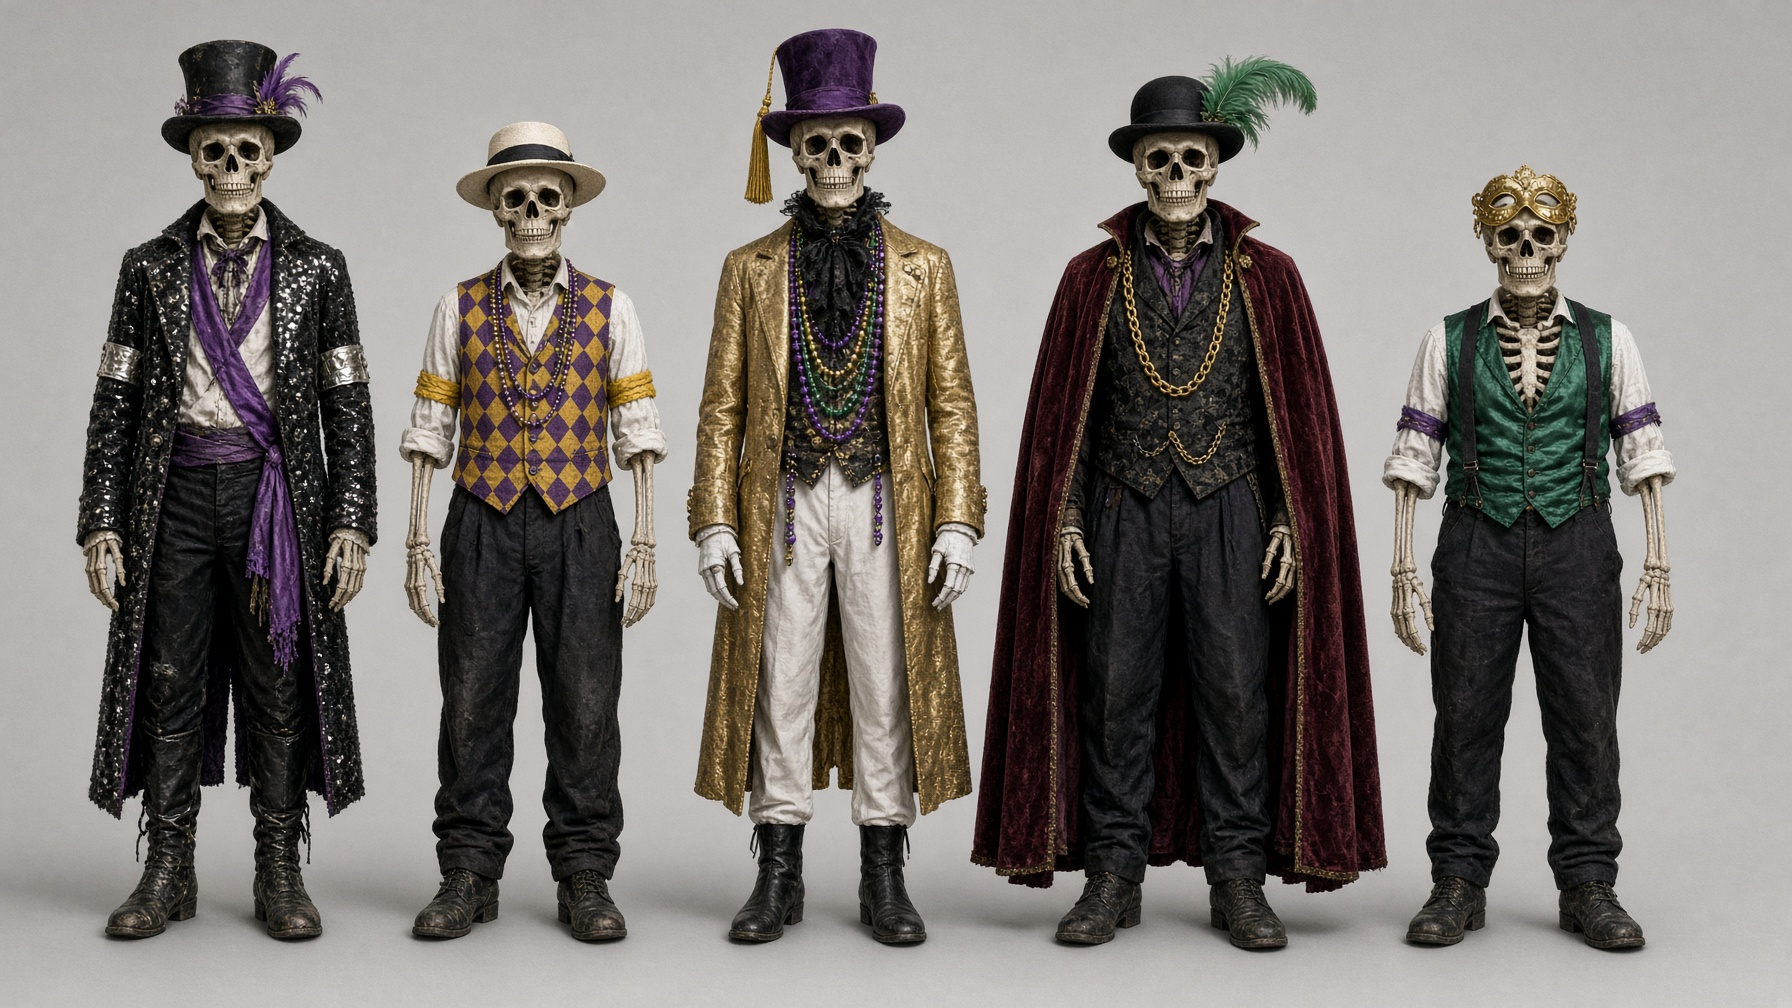
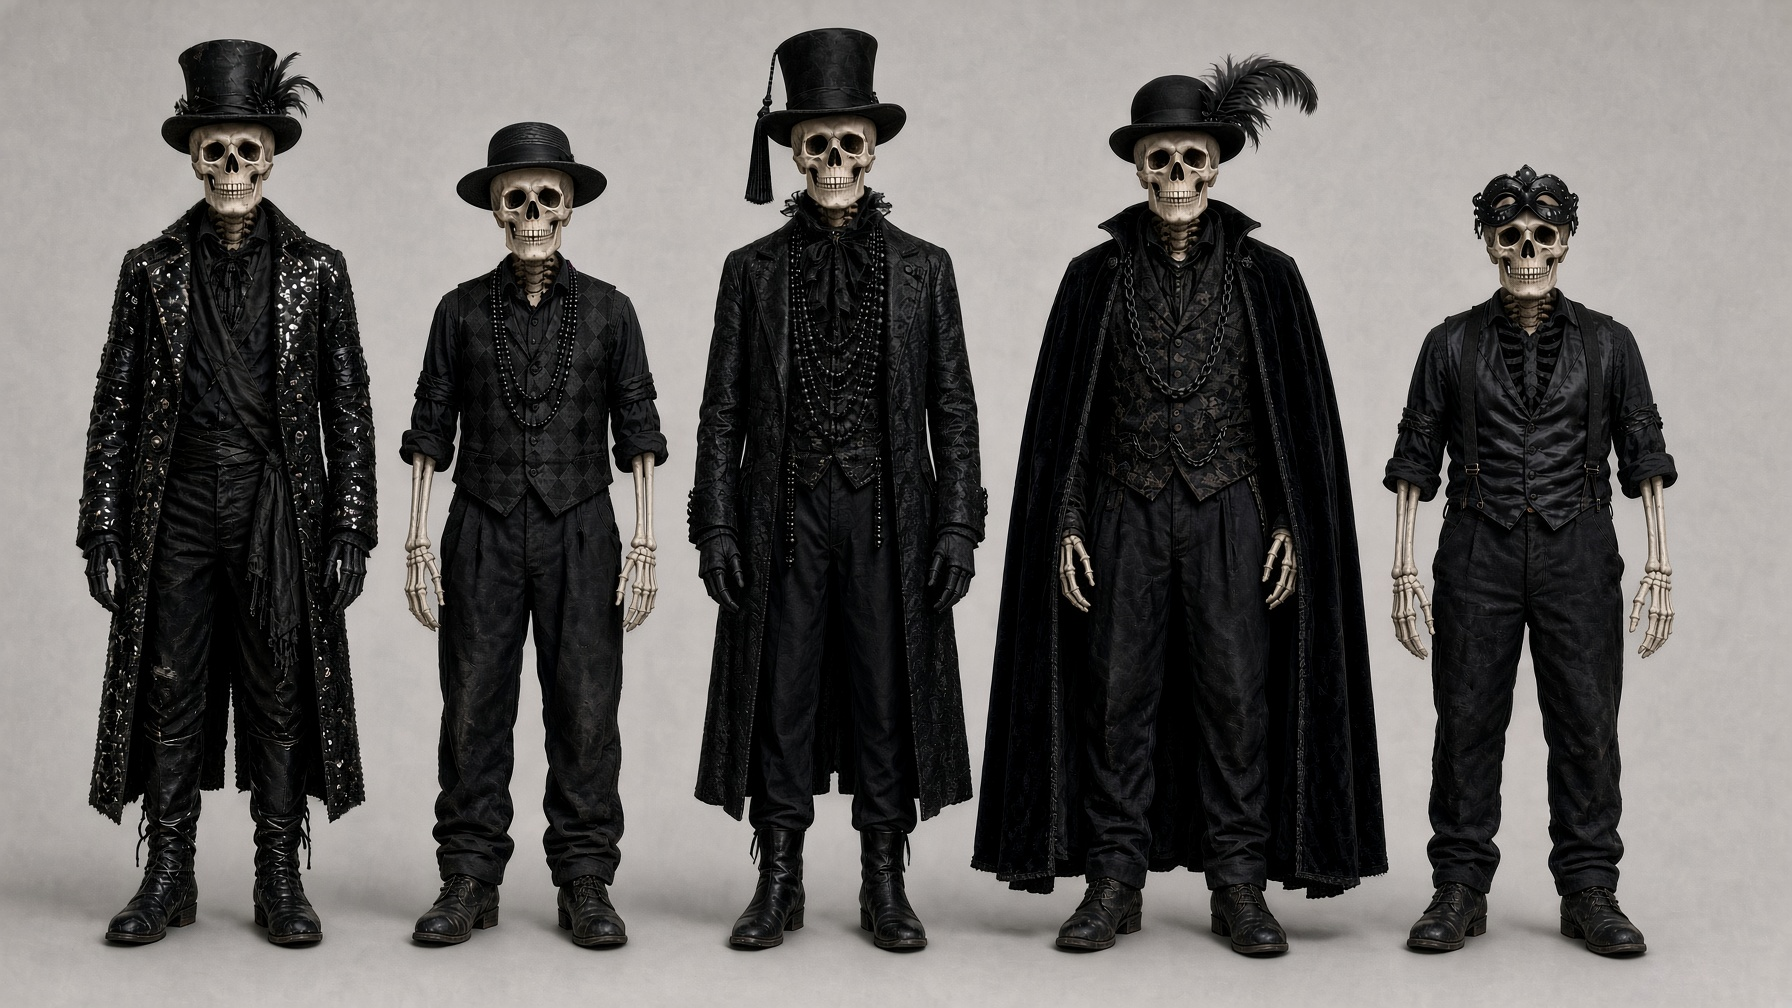
Hide: black band line-up
Claude-Session: https://claude.ai/code/session_01SvAVvjnCMj7acPRzNq7vC7

diff --git a/videos/hide/bible.md b/videos/hide/bible.md
@@ -57,7 +57,7 @@ Saved character from `cast/skeleton-cowboy/`. Tim picked a new riverboat gambler
 
 ## Band
 
-Status: answers in (27 Nov 2026). Five members: singer, guitarist, slap bassist, banjo player, drummer. Over-the-top riverboat house band (vests, shirtsleeves with arm garters, bowler and top hats); Tim asked for two wardrobe variations (V1 gilded showboat dandies, V2 Mardi Gras riverboat), line-up prompts sent 27 Nov. V2 Mardi Gras line-up made first and approved 27 Nov as refs/band-lineup.jpg (singer came out with a black brocade vest instead of bare ribs; kept). Instruments: electric guitars and bass in dark wood with brass fittings. Gear: instruments, drum kit, a few amps in wooden cases. Band alone. All right-handed.
+Status: answers in (27 Nov 2026). Five members: singer, guitarist, slap bassist, banjo player, drummer. Over-the-top riverboat house band (vests, shirtsleeves with arm garters, bowler and top hats); Tim asked for two wardrobe variations (V1 gilded showboat dandies, V2 Mardi Gras riverboat), line-up prompts sent 27 Nov. V2 Mardi Gras line-up made first and approved 27 Nov as refs/band-lineup.jpg (singer came out with a black brocade vest instead of bare ribs; kept). Tim then asked for the same outfits all in black (27 Nov): recolor edit, then a second edit to make bare arm and hand bones bone-white again (the recolor had painted them black). Current refs/band-lineup.jpg is the black version; the color version is kept as refs/band-lineup-color-old.jpg. Guitarist's hands stayed black and read as black gloves. Instruments: electric guitars and bass in dark wood with brass fittings. Gear: instruments, drum kit, a few amps in wooden cases. Band alone. All right-handed.
 
 - **Band identity line:** `a skeleton with a smooth, intact, weathered bone-white skull and empty dark eye sockets`
 - **Stage:** the casino's small lamp-lit stage at the end of the saloon, between red velvet curtains, lamps lit. Stage order: guitarist left, banjo front left, singer front center, bassist right, drummer back center.
